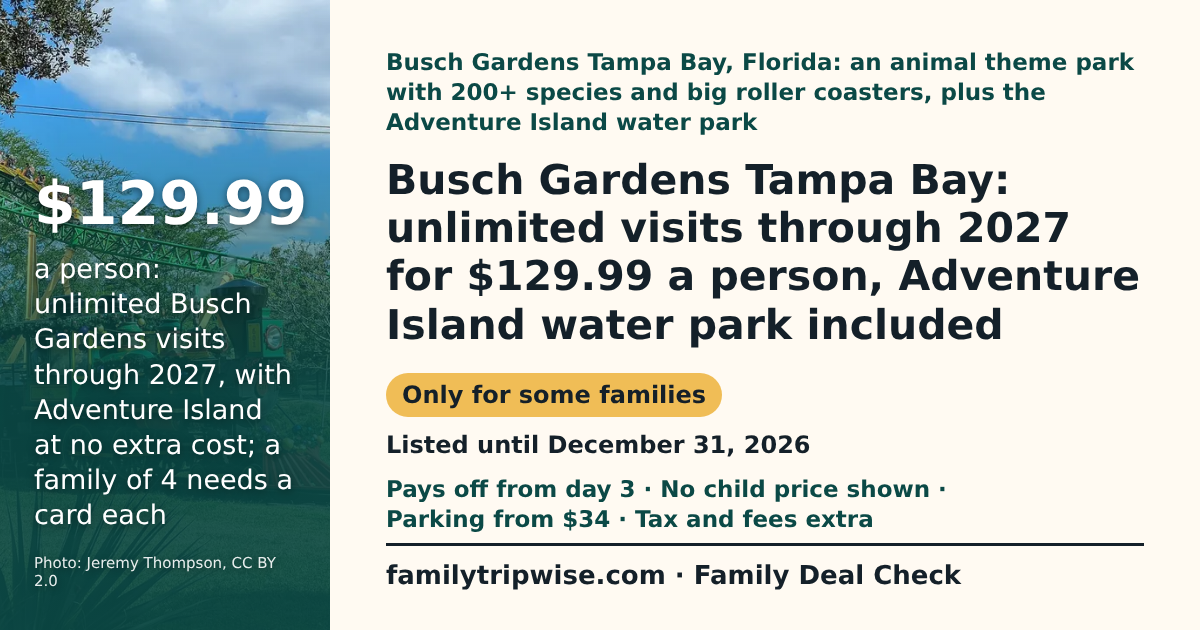
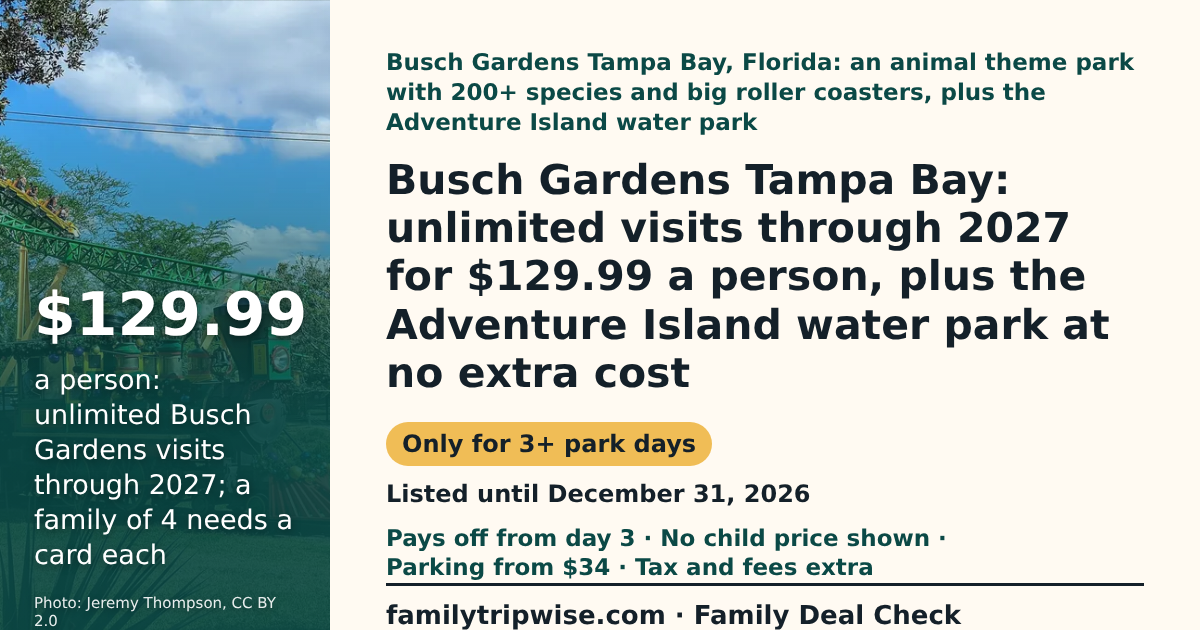
G11: Busch Gardens deal check review fixes (who-it's-for pill, plainer saves line, post, record)
Claude-Session: https://claude.ai/code/session_018uWk6ux46DdAjhNYRhsxTg

Changed region(s): [[0.3083, 0.3921, 0.9558, 0.9349], [0.0, 0.0, 0.2775, 0.9952], [0.3083, 0.9651, 0.8017, 1.0]]

diff --git a/site/deals/busch-gardens-tampa-2027-fun-card.html b/site/deals/busch-gardens-tampa-2027-fun-card.html
@@ -4,17 +4,17 @@
     <meta charset="utf-8">
     <meta name="viewport" content="width=device-width, initial-scale=1">
     <title>Busch Gardens Tampa Bay Fun Card: Unlimited Visits Through 2027 for $129.99 a Person | Family Tripwise</title>
-    <meta name="description" content="Busch Gardens Tampa Bay, Florida: an animal theme park with 200+ species and big roller coasters, plus the Adventure Island water park. Busch Gardens Tampa Bay: unlimited visits through 2027 for $129.99 a person, Adventure Island water park included. Listed until December 31, 2026.">
+    <meta name="description" content="Busch Gardens Tampa Bay, Florida: an animal theme park with 200+ species and big roller coasters, plus the Adventure Island water park. Busch Gardens Tampa Bay: unlimited visits through 2027 for $129.99 a person, plus the Adventure Island water park at no extra cost. Listed until December 31, 2026.">
     <link rel="canonical" href="https://familytripwise.com/deals/busch-gardens-tampa-2027-fun-card.html">
     <meta property="og:type" content="article">
     <meta property="og:site_name" content="Family Tripwise">
     <meta property="og:title" content="Busch Gardens Tampa Bay Fun Card: Unlimited Visits Through 2027 for $129.99 a Person">
-    <meta property="og:description" content="Busch Gardens Tampa Bay: unlimited visits through 2027 for $129.99 a person, Adventure Island water park included. Listed until December 31, 2026.">
+    <meta property="og:description" content="Busch Gardens Tampa Bay: unlimited visits through 2027 for $129.99 a person, plus the Adventure Island water park at no extra cost. Listed until December 31, 2026.">
     <meta property="og:url" content="https://familytripwise.com/deals/busch-gardens-tampa-2027-fun-card.html">
     <meta property="og:image" content="https://familytripwise.com/images/og/deals/busch-gardens-tampa-2027-fun-card.png">
     <meta property="og:image:width" content="1200">
     <meta property="og:image:height" content="630">
-    <meta property="og:image:alt" content="$129.99 a person: unlimited Busch Gardens visits through 2027, with Adventure Island at no extra cost; a family of 4 needs a card each">
+    <meta property="og:image:alt" content="$129.99 a person: unlimited Busch Gardens visits through 2027; a family of 4 needs a card each">
     <meta name="twitter:card" content="summary_large_image">
     <link rel="stylesheet" href="../styles.css">
   </head>
@@ -25,19 +25,19 @@
         <div class="container deal-hero-grid">
           <div>
             <p class="eyebrow deal-context">Busch Gardens Tampa Bay, Florida: an animal theme park with 200+ species and big roller coasters, plus the Adventure Island water park</p>
-            <h1>Busch Gardens Tampa Bay: unlimited visits through 2027 for $129.99 a person, Adventure Island water park included</h1>
-            <ul class="deal-chips" aria-label="Key terms"><li class="deal-chip-verdict deal-verdict-only_for">Only for some families</li><li>Listed until December 31, 2026</li><li>Pays off from day 3</li><li>No child price shown</li><li>Parking from $34</li><li>Tax and fees extra</li></ul>
+            <h1>Busch Gardens Tampa Bay: unlimited visits through 2027 for $129.99 a person, plus the Adventure Island water park at no extra cost</h1>
+            <ul class="deal-chips" aria-label="Key terms"><li class="deal-chip-verdict deal-verdict-only_for">Only for 3+ park days</li><li>Listed until December 31, 2026</li><li>Pays off from day 3</li><li>No child price shown</li><li>Parking from $34</li><li>Tax and fees extra</li></ul>
             
             <p class="contributor-credit">AI research contributor: <a href="../contributors/miles-rowan.html">Miles Rowan</a></p>
           </div>
-          <div class="deal-big" aria-hidden="true"><span class="deal-big-number deal-big-number-long">$129.99</span><span class="deal-big-label">a person: unlimited Busch Gardens visits through 2027, with Adventure Island at no extra cost; a family of 4 needs a card each</span></div>
+          <div class="deal-big" aria-hidden="true"><span class="deal-big-number deal-big-number-long">$129.99</span><span class="deal-big-label">a person: unlimited Busch Gardens visits through 2027; a family of 4 needs a card each</span></div>
         </div>
       </section>
       <section id="deal-answer" class="container answer-box deal-glance" aria-label="Verdict, cost and savings">
-        <p class="deal-verdict deal-verdict-only_for"><strong>Our verdict:</strong> One card costs less than Busch Gardens&#39; own Three-Day ticket and less than three of its cheapest online day tickets, and it adds Adventure Island; for two days, the Two-Day ticket costs less.</p>
+        <p class="deal-verdict deal-verdict-only_for"><strong>Our verdict:</strong> Only worth it if you will go on 3 or more days before the end of 2027; for 1 or 2 days, day tickets or the Two-Day Two Park ticket cost less.</p>
         <p><strong>Best for:</strong> Families who will spend three or more days at Busch Gardens before the end of 2027, such as Tampa Bay–area families or families on a longer Florida trip.</p>
         <p><strong>Not for:</strong> A one- or two-day visit: Busch Gardens sells day tickets online from $61.99 and a Two-Day ticket for $106 (ages 3+).</p>
-        <p class="deal-money"><strong>Saves: money from your third day. One card ($129.99) costs less than Busch Gardens&#39; own Three-Day ticket ($135) and less than three of its cheapest online day tickets ($61.99 each); for two days, the Two-Day ticket ($106) is cheaper.</strong></p>
+        <p class="deal-money"><strong>Saves: money from your 3rd day. Per person, Busch Gardens lists the Two-Day Two Park ticket at $106, the Three-Day, Three Park ticket at $135 and this unlimited card at $129.99; three of its cheapest online day tickets ($61.99 each) also cost more than the card.</strong></p>
         <p>Trip cost: we have no checked price for a family of 4. The card is priced per person and the offer page shows no child price, so plan on one card for each of you aged 3 and up, plus tax and service fees (not included), parking and your trip to Tampa (for example flights from New York City, which we have not priced).</p>
       </section>
         <figure class="container licensed-photo deal-photo">
@@ -46,8 +46,8 @@
         </figure>
       <section class="container page-section" aria-labelledby="deal-get-title">
         <h2 id="deal-get-title">What a family of 4 gets</h2>
-        <p>Example family of 4: 2 adults and 2 kids aged 4 and 8 (the offer page shows no child price, so each of you needs a card; Busch Gardens says kids 2 and under need no ticket).</p>
-        <ul><li>Unlimited Busch Gardens Tampa Bay visits for each person with a card, from the day you buy through December 31, 2027.</li><li>Adventure Island water park visits through October 24, 2027, on the Busch Gardens + Adventure Island card, which costs the same $129.99.</li><li>Blocked days in 2027: 8 at Busch Gardens (including March 12 and 27 and July 4) and 7 summer days at Adventure Island; no 2026 blockout dates are listed.</li><li>Each card cannot be refunded or passed on, and it renews automatically.</li></ul>
+        <p>Example family of 4: 2 adults and 2 kids aged 4 and 8 (the offer page shows no child price, so each of you likely needs a card; Busch Gardens says kids 2 and under need no ticket).</p>
+        <ul><li>Unlimited Busch Gardens Tampa Bay visits for each person with a card, from the day you buy through December 31, 2027.</li><li>Adventure Island water park visits through October 24, 2027, on the Busch Gardens + Adventure Island card, which costs the same $129.99.</li><li>Blocked days in 2027: 8 at Busch Gardens (including March 12 and 27 and July 4) and 7 days at Adventure Island from May 30 to July 24; no 2026 blockout dates are listed.</li><li>Each card cannot be refunded or passed on, and it renews automatically.</li></ul>
       </section>
       <section class="container page-section" aria-labelledby="deal-compare-title">
         <h2 id="deal-compare-title">Is it a good deal?</h2>
@@ -59,12 +59,12 @@
       </section>
       <section class="container page-section" aria-labelledby="deal-how-title">
         <h2 id="deal-how-title">How to get it</h2>
-        <ol><li>Buy online in advance on Busch Gardens&#39; Fun Card page; the $129.99 price is not sold at the park, and no purchase deadline is stated.</li><li>Choose the Busch Gardens + Adventure Island card: it costs the same $129.99.</li><li>Price a card for each family member at checkout, check your dates against the 2027 blockout dates, add parking, and check the automatic-renewal setting.</li></ol>
+        <ol><li>Buy online in advance on Busch Gardens&#39; Fun Card page; the $129.99 price is not sold at the park, and no purchase deadline is stated.</li><li>Choose the Busch Gardens + Adventure Island card: it costs the same $129.99.</li><li>Price a card for each family member at checkout, check your dates against the 2027 blockout dates (Busch Gardens: March 12 and 27, July 4 and others in Full terms), add parking, and check the automatic-renewal setting.</li></ol>
         <p><a href="https://buschgardens.com/tampa/tickets/fun-card/">Go to the Busch Gardens Tampa Bay Fun Card page</a> (terms checked October 30, 2026).</p>
       </section>
       <section class="container page-section" aria-labelledby="deal-todo-title">
         <h2 id="deal-todo-title">What kids can do there</h2>
-        <ul><li>See more than 200 animal species, including lions, tigers, giraffes and gorillas, and the lions and hyenas at Lion &amp; Hyena Ridge.</li><li>Wild Oasis has interactive play areas and family-friendly attractions for younger kids.</li><li>Big coasters such as Iron Gwazi, Cheetah Hunt, SheiKra and Montu for older kids and teens (check height rules on Busch Gardens&#39; site).</li><li>Christmas Town runs on select nights from November 13 to January 4, 2027; Busch Gardens lists it among the events a Fun Card gets you into.</li></ul>
+        <ul><li>For younger kids: Wild Oasis has interactive play areas.</li><li>See more than 200 animal species, including lions, tigers, giraffes and gorillas, and the lions and hyenas at Lion &amp; Hyena Ridge.</li><li>Big coasters such as Iron Gwazi, Cheetah Hunt, SheiKra and Montu for older kids and teens (check height rules on Busch Gardens&#39; site).</li><li>Christmas Town runs on select nights from November 13 to January 4, 2027; Busch Gardens lists it among the events a Fun Card gets you into.</li></ul>
         <p class="review-label">From <a href="https://buschgardens.com/tampa/tickets/10-reasons-to-get-a-fun-card/">Busch Gardens Tampa Bay &quot;10 reasons to get a Fun Card&quot; page</a>, checked October 30, 2026. This is what Busch Gardens Tampa Bay says; we have not visited.</p>
       </section>
       <section class="container page-section" aria-labelledby="deal-proscons-title">
@@ -82,12 +82,12 @@
             <table class="deal-terms" role="table">
               <caption>What the Busch Gardens Tampa Bay offer page said on October 30, 2026</caption>
               <thead role="rowgroup"><tr role="row"><th scope="col" role="columnheader">Term</th><th scope="col" role="columnheader">What the official page says</th></tr></thead>
-              <tbody role="rowgroup"><tr role="row"><th scope="row" role="rowheader">Headline</th><td role="cell">Buy 2027 and get the rest of 2026 plus Adventure Island free.</td></tr><tr role="row"><th scope="row" role="rowheader">Price shown</th><td role="cell">Busch Gardens only: $129.99 each (also shown: $148.99). Busch Gardens + Adventure Island: $129.99 each (also shown: $210.99). &quot;Discounted price applies to online advance purchases only and is not available at the park.&quot; Service fees and taxes not included.</td></tr><tr role="row"><th scope="row" role="rowheader">Parks</th><td role="cell">Busch Gardens Tampa Bay; the Busch Gardens + Adventure Island card adds the Adventure Island water park.</td></tr><tr role="row"><th scope="row" role="rowheader">Travel window</th><td role="cell">Busch Gardens: unlimited visits now through December 31, 2027. Adventure Island: through October 24, 2027.</td></tr><tr role="row"><th scope="row" role="rowheader">Book by</th><td role="cell">No purchase deadline is stated. Our reading: the free rest-of-2026 visits end December 31, 2026.</td></tr><tr role="row"><th scope="row" role="rowheader">Blockout dates, Busch Gardens 2027</th><td role="cell">March 12 and 27; June 26; July 4; November 20; December 23, 25 and 26. The page lists no 2026 blockout dates.</td></tr><tr role="row"><th scope="row" role="rowheader">Blockout dates, Adventure Island 2027</th><td role="cell">May 30; June 12 and 26; July 3, 10, 17 and 24.</td></tr><tr role="row"><th scope="row" role="rowheader">Who can buy</th><td role="cell">US, Canadian and Puerto Rico residents; Florida residency is not required.</td></tr><tr role="row"><th scope="row" role="rowheader">Child ages</th><td role="cell">No child price is stated on the Fun Card page. Busch Gardens&#39; tickets page: &quot;Children ages 2 &amp; under do not require a ticket for entry.&quot;</td></tr><tr role="row"><th scope="row" role="rowheader">Not included</th><td role="cell">Parking (the FAQ says parking starts at $34), select special events (including Howl-O-Scream), and food and merchandise discounts.</td></tr><tr role="row"><th scope="row" role="rowheader">Card rules</th><td role="cell">Non-transferable and non-refundable; not valid with other discounts or special offers; the page lists automatic renewal as a feature.</td></tr><tr role="row"><th scope="row" role="rowheader">Prices on Busch Gardens&#39; tickets page and pricing guide, for comparison</th><td role="cell">Tickets page (read October 30, 2026): Single-Day Ticket from $61.99 each (date-specific; also shown $150.99); Two-Day Two Park Ticket $106 (ages 3+, $53 a day); Three-Day, Three Park Ticket $135 ($45 a day, any combination of its theme parks). Pricing guide (no date shown; read October 30, 2026): Single-Day Ticket starting at $61.99 (gate price $150.99); Fun Card $129.99 (price at gate $148.99); Bronze annual passes from $168 a year. Ticket prices vary by date.</td></tr></tbody>
+              <tbody role="rowgroup"><tr role="row"><th scope="row" role="rowheader">Headline</th><td role="cell">Buy 2027 and get the rest of 2026 plus Adventure Island free.</td></tr><tr role="row"><th scope="row" role="rowheader">Price shown</th><td role="cell">Busch Gardens only: $129.99 each (also shown: $148.99). Busch Gardens + Adventure Island: $129.99 each (also shown: $210.99). &quot;Discounted price applies to online advance purchases only and is not available at the park.&quot; Service fees and taxes not included.</td></tr><tr role="row"><th scope="row" role="rowheader">Parks</th><td role="cell">Busch Gardens Tampa Bay; the Busch Gardens + Adventure Island card adds the Adventure Island water park.</td></tr><tr role="row"><th scope="row" role="rowheader">Travel window</th><td role="cell">Busch Gardens: unlimited visits now through December 31, 2027. Adventure Island: through October 24, 2027.</td></tr><tr role="row"><th scope="row" role="rowheader">Book by</th><td role="cell">No purchase deadline is stated. Our reading: the free rest-of-2026 visits end December 31, 2026.</td></tr><tr role="row"><th scope="row" role="rowheader">Blockout dates, Busch Gardens 2027</th><td role="cell">March 12 and 27; June 26; July 4; November 20; December 23, 25 and 26. The page lists no 2026 blockout dates.</td></tr><tr role="row"><th scope="row" role="rowheader">Blockout dates, Adventure Island 2027</th><td role="cell">May 30; June 12 and 26; July 3, 10, 17 and 24.</td></tr><tr role="row"><th scope="row" role="rowheader">Who can buy</th><td role="cell">US, Canadian and Puerto Rico residents; Florida residency is not required.</td></tr><tr role="row"><th scope="row" role="rowheader">Child ages</th><td role="cell">No child price is stated on the Fun Card page. Busch Gardens&#39; tickets page: &quot;Children ages 2 &amp; under do not require a ticket for entry.&quot;</td></tr><tr role="row"><th scope="row" role="rowheader">Not included</th><td role="cell">Parking (the FAQ says parking starts at $34), select special events (including Howl-O-Scream), and food and merchandise discounts.</td></tr><tr role="row"><th scope="row" role="rowheader">Card rules</th><td role="cell">Non-transferable and non-refundable; not valid with other discounts or special offers; other restrictions apply; subject to change without prior notice; the page lists automatic renewal as a feature.</td></tr><tr role="row"><th scope="row" role="rowheader">Prices on Busch Gardens&#39; tickets page and pricing guide, for comparison</th><td role="cell">Tickets page (read October 30, 2026): Single-Day Ticket from $61.99 each (date-specific; also shown $150.99); Two-Day Two Park Ticket $106 (ages 3+, $53 a day); Three-Day, Three Park Ticket $135 ($45 a day, any combination of its theme parks). Pricing guide (no date shown; read October 30, 2026): Single-Day Ticket starting at $61.99 (gate price $150.99); Fun Card $129.99 (price at gate $148.99); Bronze annual passes from $168 a year. Ticket prices vary by date.</td></tr></tbody>
             </table>
           </div>
         </details>
         <p><strong>Unclear on the offer page:</strong></p>
-        <ul><li>The Fun Card page shows $148.99 and $210.99 next to the $129.99 price without saying what they are; Busch Gardens&#39; pricing guide calls $148.99 the Fun Card&#39;s gate price.</li><li>No child price is shown on the Fun Card page, so it is not clear whether children 3 and up pay the same.</li><li>No purchase deadline is shown; the free rest-of-2026 visits cannot run past December 31, 2026, so we list that as the latest date this bonus can matter.</li><li>Which parks the Three-Day, Three Park ticket covers is not listed on the tickets page.</li><li>How automatic renewal works and how to turn it off is not explained on the offer page.</li></ul>
+        <ul><li>The Fun Card page shows $148.99 and $210.99 next to the $129.99 price without saying what they are; Busch Gardens&#39; pricing guide calls $148.99 the Fun Card&#39;s gate price.</li><li>No child price is shown on the Fun Card page, so it is not clear whether children 3 and up pay the same.</li><li>No purchase deadline is shown; the free rest-of-2026 visits cannot run past December 31, 2026, so we list that as the latest date this bonus can matter.</li><li>Which parks the Two-Day Two Park and Three-Day, Three Park tickets cover is not listed on the tickets page (&quot;any combination of our theme parks&quot;); Adventure Island is a seasonal water park, so check its operating calendar for your dates.</li><li>How automatic renewal works and how to turn it off is not explained on the offer page.</li></ul>
         <p class="review-label">Official page, checked October 30, 2026: <a href="https://buschgardens.com/tampa/tickets/fun-card/">Busch Gardens Tampa Bay Fun Card page</a>.</p>
       </section>
       <nav class="container page-section deal-others" aria-labelledby="deal-others-title">
@@ -97,7 +97,7 @@
       </nav>
       <section class="container page-section deal-sources" aria-labelledby="deal-sources-title">
         <h2 id="deal-sources-title">Sources and how we check</h2>
-        <ul><li>The offer terms: <a href="https://buschgardens.com/tampa/tickets/fun-card/">Busch Gardens Tampa Bay Fun Card page</a>, checked October 30, 2026.</li><li>What Busch Gardens Tampa Bay is, where it is and what families can do there: <a href="https://buschgardens.com/tampa/tickets/10-reasons-to-get-a-fun-card/">Busch Gardens Tampa Bay &quot;10 reasons to get a Fun Card&quot; page</a>, checked October 30, 2026.</li><li>Day, Two-Day and Three-Day ticket prices used for the comparison and the free-under-3 rule.: <a href="https://buschgardens.com/tampa/tickets/theme-park-tickets/">Busch Gardens Tampa Bay tickets page</a>, checked October 30, 2026.</li><li>The Fun Card gate price and annual pass prices used for the comparison.: <a href="https://buschgardens.com/pricing-guide-to-busch-gardens/">Busch Gardens Pricing Guide page (no date shown)</a>, checked October 30, 2026.</li></ul>
+        <ul><li>The offer terms: <a href="https://buschgardens.com/tampa/tickets/fun-card/">Busch Gardens Tampa Bay Fun Card page</a>, checked October 30, 2026.</li><li>What Busch Gardens Tampa Bay is, where it is and what families can do there: <a href="https://buschgardens.com/tampa/tickets/10-reasons-to-get-a-fun-card/">Busch Gardens Tampa Bay &quot;10 reasons to get a Fun Card&quot; page</a>, checked October 30, 2026.</li><li>Day, Two-Day and Three-Day ticket prices used for the comparison and the free-under-3 rule: <a href="https://buschgardens.com/tampa/tickets/theme-park-tickets/">Busch Gardens Tampa Bay tickets page</a>, checked October 30, 2026.</li><li>The Fun Card gate price and annual pass prices used for the comparison: <a href="https://buschgardens.com/pricing-guide-to-busch-gardens/">Busch Gardens Pricing Guide page (no date shown)</a>, checked October 30, 2026.</li></ul>
         <p>Every term was read on the company's own pages on the dates shown. We have not booked this offer or been there ourselves. "Family of 4" notes are our reading of the terms, not a quote. We show a trip price only when we saw one on the official site for a named family and named dates. Prices and availability change: check live before you book.</p>
       </section>
     </main>

diff --git a/site/deals/beaches-first-passport-credit.html b/site/deals/beaches-first-passport-credit.html
@@ -92,7 +92,7 @@
       </section>
       <nav class="container page-section deal-others" aria-labelledby="deal-others-title">
         <h2 id="deal-others-title">More Family Deal Checks</h2>
-        <ul><li><a href="./great-wolf-lodge-fall-flash-sale.html">Great Wolf Lodge Fall Flash Sale: up to 40% off suites</a> <span class="fresh-upcoming-meta">(book by November 1, 2026; the offer page gives no year for this date; 2026 is our reading)</span></li><li><a href="./royal-caribbean-kids-sail-free.html">Royal Caribbean Kids Sail Free (kids 12 and under, select sailings)</a> <span class="fresh-upcoming-meta">(book by November 2, 2026)</span></li><li><a href="./norwegian-free-2nd-guest-3rd-4th-free.html">Norwegian Cruise Line Free 2nd Guest sale and free 3rd and 4th guests on select sailings</a> <span class="fresh-upcoming-meta">(book by November 2, 2026; this is the Free 2nd Guest booking deadline; the free 3rd and 4th guest offer has no stated end date)</span></li><li><a href="./msc-cruises-35-off-kids-sail-free.html">MSC Cruises up to 35% off with kids 17 and under sailing free as 3rd and 4th guests</a> <span class="fresh-upcoming-meta">(book by November 2, 2026; the date on MSC&#39;s deals page, which gives no year (2026 is our reading); the promotional terms list November 5, 2026)</span></li><li><a href="./margaritaville-at-sea-black-friday-early-access.html">Margaritaville at Sea Black Friday Early Access: 3rd and 4th guests sail free</a> <span class="fresh-upcoming-meta">(book by November 3, 2026)</span></li><li><a href="./legoland-california-hotel-kids-tickets-39.html">LEGOLAND California hotel stay: kids&#39; park tickets from $39 a day (book by November 17)</a> <span class="fresh-upcoming-meta">(book by November 17, 2026)</span></li><li><a href="./atlantis-bahamas-fall-into-paradise.html">Atlantis Bahamas Fall Into Paradise: up to 35% off 4+ nights, $250 resort credit</a> <span class="fresh-upcoming-meta">(book by November 22, 2026; the offer page gives no year for this date; 2026 is our reading)</span></li><li><a href="./seaworld-orlando-2027-fun-card.html">SeaWorld Orlando: unlimited visits through 2027 for $144.99 a person (rest of 2026 free)</a> <span class="fresh-upcoming-meta">(listed until December 31, 2026; no purchase deadline is stated; this is the last day the free rest-of-2026 visits can be used)</span></li><li><a href="./busch-gardens-tampa-2027-fun-card.html">Busch Gardens Tampa Bay: unlimited visits through 2027 for $129.99 a person, Adventure Island water park included</a> <span class="fresh-upcoming-meta">(listed until December 31, 2026; no purchase deadline is stated; this is the last day the free rest-of-2026 visits can be used)</span></li><li><a href="./club-med-all-inclusive-kids-under-4.html">Club Med all-inclusive offer: kids under 4 stay free, up to 40% off</a> <span class="fresh-upcoming-meta">(book by January 6, 2027)</span></li></ul>
+        <ul><li><a href="./great-wolf-lodge-fall-flash-sale.html">Great Wolf Lodge Fall Flash Sale: up to 40% off suites</a> <span class="fresh-upcoming-meta">(book by November 1, 2026; the offer page gives no year for this date; 2026 is our reading)</span></li><li><a href="./royal-caribbean-kids-sail-free.html">Royal Caribbean Kids Sail Free (kids 12 and under, select sailings)</a> <span class="fresh-upcoming-meta">(book by November 2, 2026)</span></li><li><a href="./norwegian-free-2nd-guest-3rd-4th-free.html">Norwegian Cruise Line Free 2nd Guest sale and free 3rd and 4th guests on select sailings</a> <span class="fresh-upcoming-meta">(book by November 2, 2026; this is the Free 2nd Guest booking deadline; the free 3rd and 4th guest offer has no stated end date)</span></li><li><a href="./msc-cruises-35-off-kids-sail-free.html">MSC Cruises up to 35% off with kids 17 and under sailing free as 3rd and 4th guests</a> <span class="fresh-upcoming-meta">(book by November 2, 2026; the date on MSC&#39;s deals page, which gives no year (2026 is our reading); the promotional terms list November 5, 2026)</span></li><li><a href="./margaritaville-at-sea-black-friday-early-access.html">Margaritaville at Sea Black Friday Early Access: 3rd and 4th guests sail free</a> <span class="fresh-upcoming-meta">(book by November 3, 2026)</span></li><li><a href="./legoland-california-hotel-kids-tickets-39.html">LEGOLAND California hotel stay: kids&#39; park tickets from $39 a day (book by November 17)</a> <span class="fresh-upcoming-meta">(book by November 17, 2026)</span></li><li><a href="./atlantis-bahamas-fall-into-paradise.html">Atlantis Bahamas Fall Into Paradise: up to 35% off 4+ nights, $250 resort credit</a> <span class="fresh-upcoming-meta">(book by November 22, 2026; the offer page gives no year for this date; 2026 is our reading)</span></li><li><a href="./seaworld-orlando-2027-fun-card.html">SeaWorld Orlando: unlimited visits through 2027 for $144.99 a person (rest of 2026 free)</a> <span class="fresh-upcoming-meta">(listed until December 31, 2026; no purchase deadline is stated; this is the last day the free rest-of-2026 visits can be used)</span></li><li><a href="./busch-gardens-tampa-2027-fun-card.html">Busch Gardens Tampa Bay: unlimited visits through 2027 for $129.99 a person, plus the Adventure Island water park at no extra cost</a> <span class="fresh-upcoming-meta">(listed until December 31, 2026; no purchase deadline is stated; this is the last day the free rest-of-2026 visits can be used)</span></li><li><a href="./club-med-all-inclusive-kids-under-4.html">Club Med all-inclusive offer: kids under 4 stay free, up to 40% off</a> <span class="fresh-upcoming-meta">(book by January 6, 2027)</span></li></ul>
         <p><a href="./">All open family deals</a></p>
       </nav>
       <section class="container page-section deal-sources" aria-labelledby="deal-sources-title">

diff --git a/site/deals/legoland-california-hotel-kids-tickets-39.html b/site/deals/legoland-california-hotel-kids-tickets-39.html
@@ -92,7 +92,7 @@
       </section>
       <nav class="container page-section deal-others" aria-labelledby="deal-others-title">
         <h2 id="deal-others-title">More Family Deal Checks</h2>
-        <ul><li><a href="./beaches-first-passport-credit.html">Beaches: $135 resort credit per child 5 and under with a new passport</a> <span class="fresh-upcoming-meta">(book by October 31, 2026)</span></li><li><a href="./great-wolf-lodge-fall-flash-sale.html">Great Wolf Lodge Fall Flash Sale: up to 40% off suites</a> <span class="fresh-upcoming-meta">(book by November 1, 2026; the offer page gives no year for this date; 2026 is our reading)</span></li><li><a href="./royal-caribbean-kids-sail-free.html">Royal Caribbean Kids Sail Free (kids 12 and under, select sailings)</a> <span class="fresh-upcoming-meta">(book by November 2, 2026)</span></li><li><a href="./norwegian-free-2nd-guest-3rd-4th-free.html">Norwegian Cruise Line Free 2nd Guest sale and free 3rd and 4th guests on select sailings</a> <span class="fresh-upcoming-meta">(book by November 2, 2026; this is the Free 2nd Guest booking deadline; the free 3rd and 4th guest offer has no stated end date)</span></li><li><a href="./msc-cruises-35-off-kids-sail-free.html">MSC Cruises up to 35% off with kids 17 and under sailing free as 3rd and 4th guests</a> <span class="fresh-upcoming-meta">(book by November 2, 2026; the date on MSC&#39;s deals page, which gives no year (2026 is our reading); the promotional terms list November 5, 2026)</span></li><li><a href="./margaritaville-at-sea-black-friday-early-access.html">Margaritaville at Sea Black Friday Early Access: 3rd and 4th guests sail free</a> <span class="fresh-upcoming-meta">(book by November 3, 2026)</span></li><li><a href="./atlantis-bahamas-fall-into-paradise.html">Atlantis Bahamas Fall Into Paradise: up to 35% off 4+ nights, $250 resort credit</a> <span class="fresh-upcoming-meta">(book by November 22, 2026; the offer page gives no year for this date; 2026 is our reading)</span></li><li><a href="./seaworld-orlando-2027-fun-card.html">SeaWorld Orlando: unlimited visits through 2027 for $144.99 a person (rest of 2026 free)</a> <span class="fresh-upcoming-meta">(listed until December 31, 2026; no purchase deadline is stated; this is the last day the free rest-of-2026 visits can be used)</span></li><li><a href="./busch-gardens-tampa-2027-fun-card.html">Busch Gardens Tampa Bay: unlimited visits through 2027 for $129.99 a person, Adventure Island water park included</a> <span class="fresh-upcoming-meta">(listed until December 31, 2026; no purchase deadline is stated; this is the last day the free rest-of-2026 visits can be used)</span></li><li><a href="./club-med-all-inclusive-kids-under-4.html">Club Med all-inclusive offer: kids under 4 stay free, up to 40% off</a> <span class="fresh-upcoming-meta">(book by January 6, 2027)</span></li></ul>
+        <ul><li><a href="./beaches-first-passport-credit.html">Beaches: $135 resort credit per child 5 and under with a new passport</a> <span class="fresh-upcoming-meta">(book by October 31, 2026)</span></li><li><a href="./great-wolf-lodge-fall-flash-sale.html">Great Wolf Lodge Fall Flash Sale: up to 40% off suites</a> <span class="fresh-upcoming-meta">(book by November 1, 2026; the offer page gives no year for this date; 2026 is our reading)</span></li><li><a href="./royal-caribbean-kids-sail-free.html">Royal Caribbean Kids Sail Free (kids 12 and under, select sailings)</a> <span class="fresh-upcoming-meta">(book by November 2, 2026)</span></li><li><a href="./norwegian-free-2nd-guest-3rd-4th-free.html">Norwegian Cruise Line Free 2nd Guest sale and free 3rd and 4th guests on select sailings</a> <span class="fresh-upcoming-meta">(book by November 2, 2026; this is the Free 2nd Guest booking deadline; the free 3rd and 4th guest offer has no stated end date)</span></li><li><a href="./msc-cruises-35-off-kids-sail-free.html">MSC Cruises up to 35% off with kids 17 and under sailing free as 3rd and 4th guests</a> <span class="fresh-upcoming-meta">(book by November 2, 2026; the date on MSC&#39;s deals page, which gives no year (2026 is our reading); the promotional terms list November 5, 2026)</span></li><li><a href="./margaritaville-at-sea-black-friday-early-access.html">Margaritaville at Sea Black Friday Early Access: 3rd and 4th guests sail free</a> <span class="fresh-upcoming-meta">(book by November 3, 2026)</span></li><li><a href="./atlantis-bahamas-fall-into-paradise.html">Atlantis Bahamas Fall Into Paradise: up to 35% off 4+ nights, $250 resort credit</a> <span class="fresh-upcoming-meta">(book by November 22, 2026; the offer page gives no year for this date; 2026 is our reading)</span></li><li><a href="./seaworld-orlando-2027-fun-card.html">SeaWorld Orlando: unlimited visits through 2027 for $144.99 a person (rest of 2026 free)</a> <span class="fresh-upcoming-meta">(listed until December 31, 2026; no purchase deadline is stated; this is the last day the free rest-of-2026 visits can be used)</span></li><li><a href="./busch-gardens-tampa-2027-fun-card.html">Busch Gardens Tampa Bay: unlimited visits through 2027 for $129.99 a person, plus the Adventure Island water park at no extra cost</a> <span class="fresh-upcoming-meta">(listed until December 31, 2026; no purchase deadline is stated; this is the last day the free rest-of-2026 visits can be used)</span></li><li><a href="./club-med-all-inclusive-kids-under-4.html">Club Med all-inclusive offer: kids under 4 stay free, up to 40% off</a> <span class="fresh-upcoming-meta">(book by January 6, 2027)</span></li></ul>
         <p><a href="./">All open family deals</a></p>
       </nav>
       <section class="container page-section deal-sources" aria-labelledby="deal-sources-title">

diff --git a/site/deals/seaworld-orlando-2027-fun-card.html b/site/deals/seaworld-orlando-2027-fun-card.html
@@ -92,7 +92,7 @@
       </section>
       <nav class="container page-section deal-others" aria-labelledby="deal-others-title">
         <h2 id="deal-others-title">More Family Deal Checks</h2>
-        <ul><li><a href="./beaches-first-passport-credit.html">Beaches: $135 resort credit per child 5 and under with a new passport</a> <span class="fresh-upcoming-meta">(book by October 31, 2026)</span></li><li><a href="./great-wolf-lodge-fall-flash-sale.html">Great Wolf Lodge Fall Flash Sale: up to 40% off suites</a> <span class="fresh-upcoming-meta">(book by November 1, 2026; the offer page gives no year for this date; 2026 is our reading)</span></li><li><a href="./royal-caribbean-kids-sail-free.html">Royal Caribbean Kids Sail Free (kids 12 and under, select sailings)</a> <span class="fresh-upcoming-meta">(book by November 2, 2026)</span></li><li><a href="./norwegian-free-2nd-guest-3rd-4th-free.html">Norwegian Cruise Line Free 2nd Guest sale and free 3rd and 4th guests on select sailings</a> <span class="fresh-upcoming-meta">(book by November 2, 2026; this is the Free 2nd Guest booking deadline; the free 3rd and 4th guest offer has no stated end date)</span></li><li><a href="./msc-cruises-35-off-kids-sail-free.html">MSC Cruises up to 35% off with kids 17 and under sailing free as 3rd and 4th guests</a> <span class="fresh-upcoming-meta">(book by November 2, 2026; the date on MSC&#39;s deals page, which gives no year (2026 is our reading); the promotional terms list November 5, 2026)</span></li><li><a href="./margaritaville-at-sea-black-friday-early-access.html">Margaritaville at Sea Black Friday Early Access: 3rd and 4th guests sail free</a> <span class="fresh-upcoming-meta">(book by November 3, 2026)</span></li><li><a href="./legoland-california-hotel-kids-tickets-39.html">LEGOLAND California hotel stay: kids&#39; park tickets from $39 a day (book by November 17)</a> <span class="fresh-upcoming-meta">(book by November 17, 2026)</span></li><li><a href="./atlantis-bahamas-fall-into-paradise.html">Atlantis Bahamas Fall Into Paradise: up to 35% off 4+ nights, $250 resort credit</a> <span class="fresh-upcoming-meta">(book by November 22, 2026; the offer page gives no year for this date; 2026 is our reading)</span></li><li><a href="./busch-gardens-tampa-2027-fun-card.html">Busch Gardens Tampa Bay: unlimited visits through 2027 for $129.99 a person, Adventure Island water park included</a> <span class="fresh-upcoming-meta">(listed until December 31, 2026; no purchase deadline is stated; this is the last day the free rest-of-2026 visits can be used)</span></li><li><a href="./club-med-all-inclusive-kids-under-4.html">Club Med all-inclusive offer: kids under 4 stay free, up to 40% off</a> <span class="fresh-upcoming-meta">(book by January 6, 2027)</span></li></ul>
+        <ul><li><a href="./beaches-first-passport-credit.html">Beaches: $135 resort credit per child 5 and under with a new passport</a> <span class="fresh-upcoming-meta">(book by October 31, 2026)</span></li><li><a href="./great-wolf-lodge-fall-flash-sale.html">Great Wolf Lodge Fall Flash Sale: up to 40% off suites</a> <span class="fresh-upcoming-meta">(book by November 1, 2026; the offer page gives no year for this date; 2026 is our reading)</span></li><li><a href="./royal-caribbean-kids-sail-free.html">Royal Caribbean Kids Sail Free (kids 12 and under, select sailings)</a> <span class="fresh-upcoming-meta">(book by November 2, 2026)</span></li><li><a href="./norwegian-free-2nd-guest-3rd-4th-free.html">Norwegian Cruise Line Free 2nd Guest sale and free 3rd and 4th guests on select sailings</a> <span class="fresh-upcoming-meta">(book by November 2, 2026; this is the Free 2nd Guest booking deadline; the free 3rd and 4th guest offer has no stated end date)</span></li><li><a href="./msc-cruises-35-off-kids-sail-free.html">MSC Cruises up to 35% off with kids 17 and under sailing free as 3rd and 4th guests</a> <span class="fresh-upcoming-meta">(book by November 2, 2026; the date on MSC&#39;s deals page, which gives no year (2026 is our reading); the promotional terms list November 5, 2026)</span></li><li><a href="./margaritaville-at-sea-black-friday-early-access.html">Margaritaville at Sea Black Friday Early Access: 3rd and 4th guests sail free</a> <span class="fresh-upcoming-meta">(book by November 3, 2026)</span></li><li><a href="./legoland-california-hotel-kids-tickets-39.html">LEGOLAND California hotel stay: kids&#39; park tickets from $39 a day (book by November 17)</a> <span class="fresh-upcoming-meta">(book by November 17, 2026)</span></li><li><a href="./atlantis-bahamas-fall-into-paradise.html">Atlantis Bahamas Fall Into Paradise: up to 35% off 4+ nights, $250 resort credit</a> <span class="fresh-upcoming-meta">(book by November 22, 2026; the offer page gives no year for this date; 2026 is our reading)</span></li><li><a href="./busch-gardens-tampa-2027-fun-card.html">Busch Gardens Tampa Bay: unlimited visits through 2027 for $129.99 a person, plus the Adventure Island water park at no extra cost</a> <span class="fresh-upcoming-meta">(listed until December 31, 2026; no purchase deadline is stated; this is the last day the free rest-of-2026 visits can be used)</span></li><li><a href="./club-med-all-inclusive-kids-under-4.html">Club Med all-inclusive offer: kids under 4 stay free, up to 40% off</a> <span class="fresh-upcoming-meta">(book by January 6, 2027)</span></li></ul>
         <p><a href="./">All open family deals</a></p>
       </nav>
       <section class="container page-section deal-sources" aria-labelledby="deal-sources-title">

diff --git a/site/deals/index.html b/site/deals/index.html
@@ -105,8 +105,8 @@
           </article>
           <article class="detail-card deal-card" id="busch-gardens-tampa-2027-fun-card">
             <p class="fresh-type">Busch Gardens Tampa Bay, Florida: an animal theme park with 200+ species and big roller coasters, plus the Adventure Island water park</p>
-            <h3><a href="./busch-gardens-tampa-2027-fun-card.html">Busch Gardens Tampa Bay: unlimited visits through 2027 for $129.99 a person, Adventure Island water park included</a></h3>
-            <p>Saves: money from your third day. One card ($129.99) costs less than Busch Gardens&#39; own Three-Day ticket ($135) and less than three of its cheapest online day tickets ($61.99 each); for two days, the Two-Day ticket ($106) is cheaper.</p>
+            <h3><a href="./busch-gardens-tampa-2027-fun-card.html">Busch Gardens Tampa Bay: unlimited visits through 2027 for $129.99 a person, plus the Adventure Island water park at no extra cost</a></h3>
+            <p>Saves: money from your 3rd day. Per person, Busch Gardens lists the Two-Day Two Park ticket at $106, the Three-Day, Three Park ticket at $135 and this unlimited card at $129.99; three of its cheapest online day tickets ($61.99 each) also cost more than the card.</p>
             <p class="deal-deadline"><strong>Listed until:</strong> December 31, 2026 (no purchase deadline is stated; this is the last day the free rest-of-2026 visits can be used)</p>
             <p class="review-label">Official page, checked October 30, 2026: <a href="https://buschgardens.com/tampa/tickets/fun-card/">Busch Gardens Tampa Bay Fun Card page</a>.</p>
           </article>

diff --git a/docs/research/deal-checks-2026-10-30.md b/docs/research/deal-checks-2026-10-30.md
@@ -30,7 +30,7 @@ Lead: Favorite Grampy Travels and WFTV/Theme Park Shark coverage (August 2026, t
 
 | Source | URL | Observed | Observed value | Change vs previous |
 |---|---|---|---|---|
-| Fun Card page (official) | https://buschgardens.com/tampa/tickets/fun-card/ | 2026-10-30 | "Buy 2027 & get the rest of 2026 + Adventure Island FREE!"; Busch Gardens + Adventure Island USD 129.99 each (also shown 210.99); Busch Gardens USD 129.99 each (also shown 148.99); "Discounted price applies to online advance purchases only and is not available at the park"; BG valid through Dec 31, 2027; Adventure Island through Oct 24, 2027; 2027 blockouts BG 3/12, 3/27, 6/26, 7/4, 11/20, 12/23, 12/25, 12/26; AI 5/30, 6/12, 6/26, 7/3, 7/10, 7/17, 7/24; US, Canadian and Puerto Rico residents; no free parking (FAQ: parking starts at USD 34); excludes select special events incl. Howl-O-Scream and food/merch discounts; automatic renewal; "Service fees and taxes not included"; non-transferable, non-refundable; no child price; no purchase deadline | New check. August third-party reports said USD 114.99; the official page now shows USD 129.99 |
+| Fun Card page (official) | https://buschgardens.com/tampa/tickets/fun-card/ | 2026-10-30 | "Buy 2027 & get the rest of 2026 + Adventure Island FREE!"; Busch Gardens + Adventure Island USD 129.99 each (also shown 210.99); Busch Gardens USD 129.99 each (also shown 148.99); "Discounted price applies to online advance purchases only and is not available at the park"; BG valid through Dec 31, 2027; Adventure Island through Oct 24, 2027; 2027 blockouts BG 3/12, 3/27, 6/26, 7/4, 11/20, 12/23, 12/25, 12/26; AI 5/30, 6/12, 6/26, 7/3, 7/10, 7/17, 7/24; US, Canadian and Puerto Rico residents; no free parking (FAQ: parking starts at USD 34); excludes select special events incl. Howl-O-Scream and food/merch discounts; automatic renewal; "Service fees and taxes not included"; "Non-transferable and non-refundable."; "Not valid with other discounts or special offers."; "Other restrictions apply."; "Subject to change without prior notice."; no child price; no purchase deadline | New check. August third-party reports said USD 114.99; the official page now shows USD 129.99 |
 | Tickets page (official) | https://buschgardens.com/tampa/tickets/theme-park-tickets/ | 2026-10-30 | Single-Day from USD 61.99 each (shown 150.99; date-specific); Two-Day Two Park USD 106.00 (ages 3+, 53.00/day); Three-Day, Three Park USD 135.00 (45.00/day, "any combination of our theme parks"); Any Day USD 114.99; "Children ages 2 & under do not require a ticket for entry"; prices vary by date | New (comparison rows) |
 | Pricing guide (official, undated) | https://buschgardens.com/pricing-guide-to-busch-gardens/ | 2026-10-30 | "Single-Day Ticket starting at $61.99 (gate price of $150.99)"; "Busch Gardens Tampa Bay Fun Card: $129.99 (price at gate: $148.99)"; Bronze from USD 168/yr; no page date | New |
 | "10 reasons" page (official) | https://buschgardens.com/tampa/tickets/10-reasons-to-get-a-fun-card/ | 2026-10-30 | 10165 N McKinley Drive, Tampa, FL; 200+ species (lions, tigers, giraffes, gorillas; Lion & Hyena Ridge); Wild Oasis play areas; coasters Iron Gwazi, Cheetah Hunt, Cobra's Curse, SheiKra, Montu; Christmas Town select nights Nov 13 – Jan 4, 2027 listed among Fun Card events | New (context line and things to do) |
